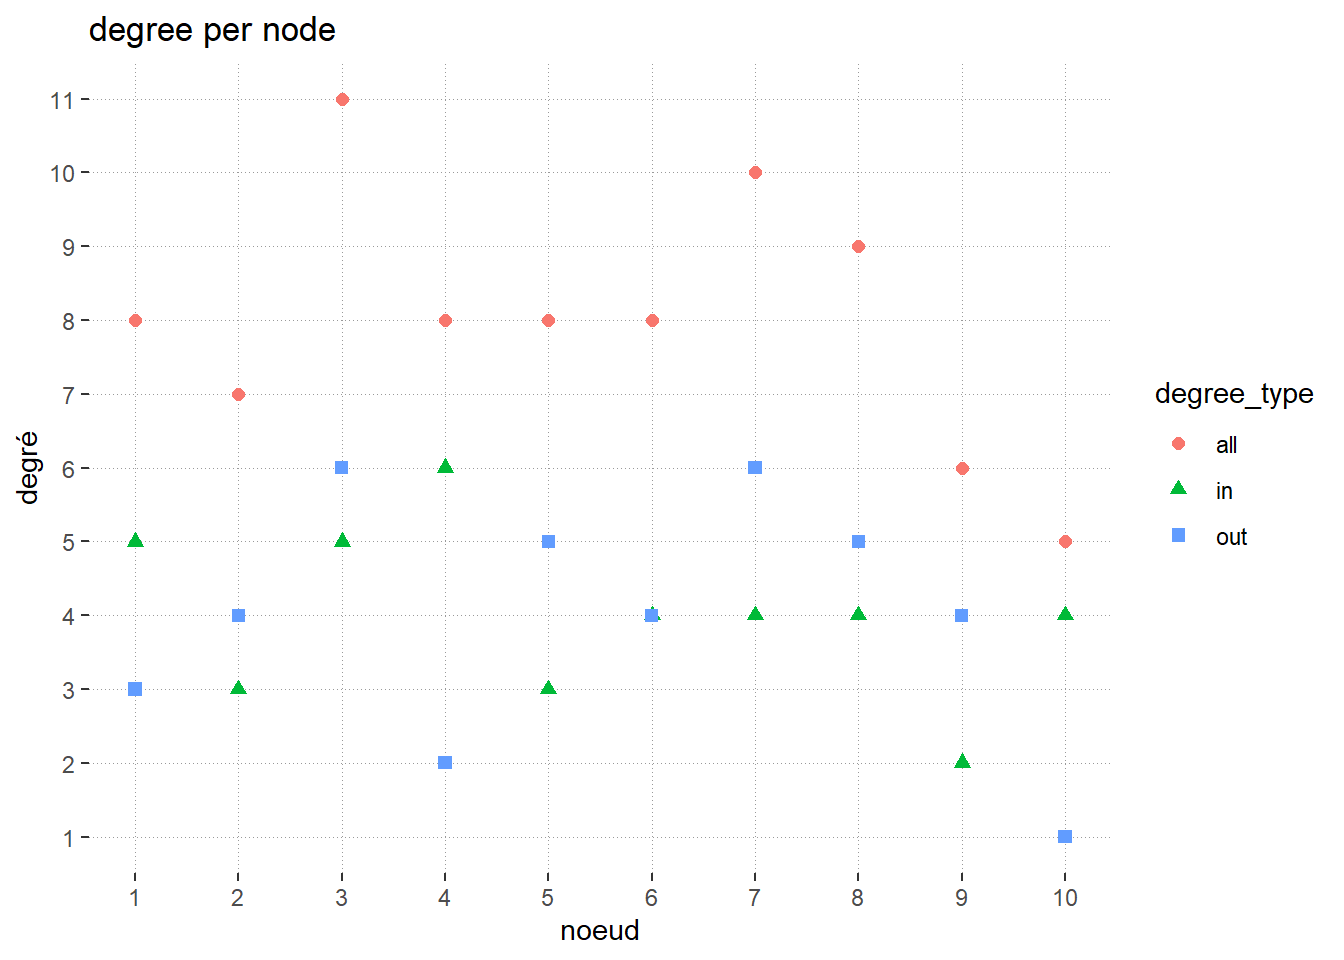
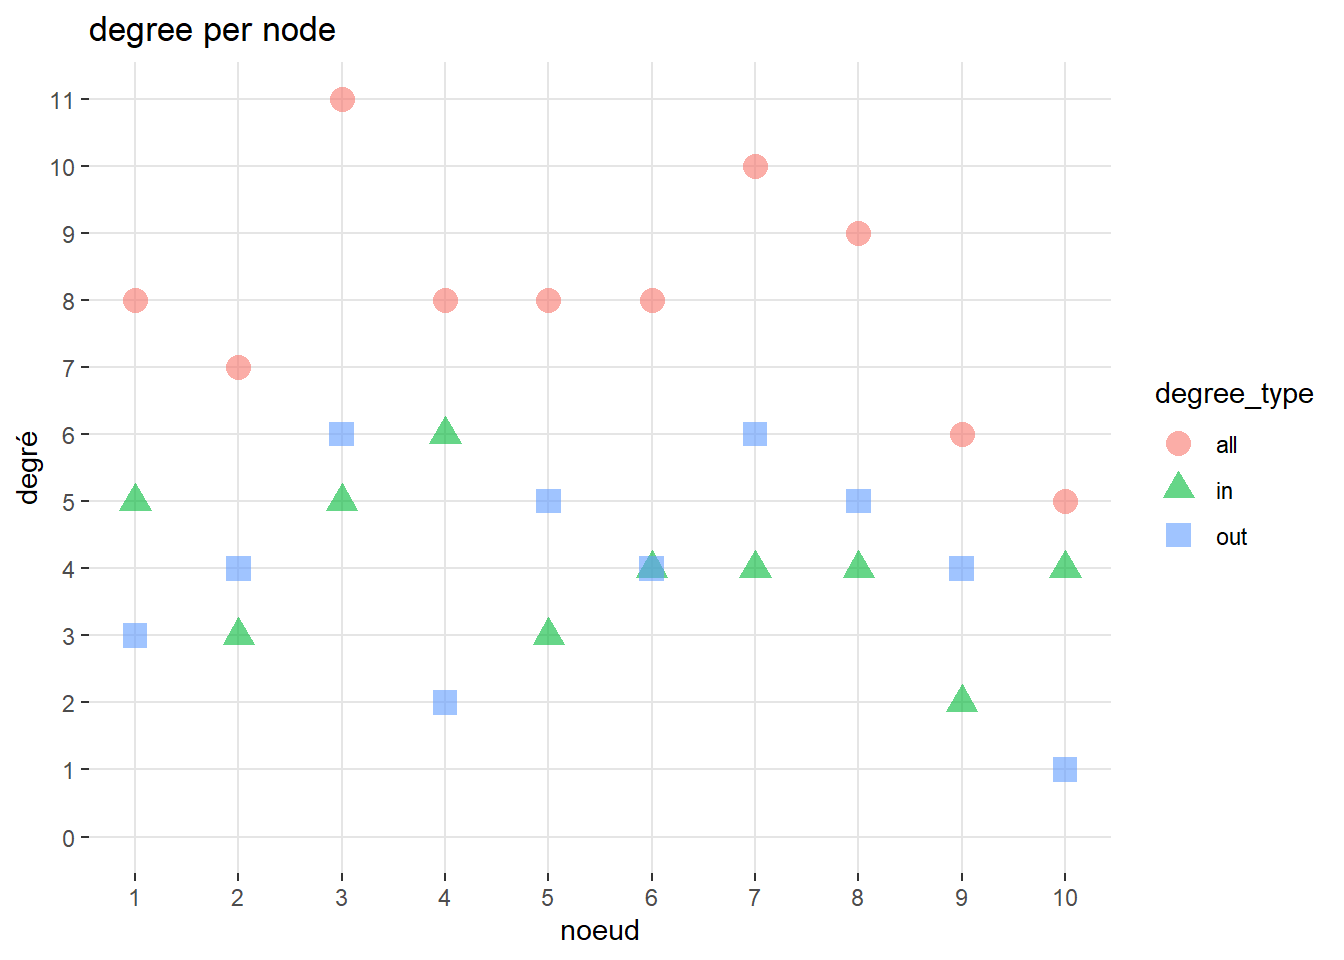
changing graphs

diff --git a/matrices.html b/matrices.html
@@ -2,7 +2,7 @@
 <html xmlns="http://www.w3.org/1999/xhtml" lang="en" xml:lang="en"><head>
 
 <meta charset="utf-8">
-<meta name="generator" content="quarto-1.4.551">
+<meta name="generator" content="quarto-1.4.550">
 
 <meta name="viewport" content="width=device-width, initial-scale=1.0, user-scalable=yes">
 
@@ -68,15 +68,10 @@ pre > code.sourceCode > span > a:first-child::before { text-decoration: underlin
 <link href="matrices_files/libs/bootstrap/bootstrap-icons.css" rel="stylesheet">
 <link href="matrices_files/libs/bootstrap/bootstrap.min.css" rel="stylesheet" id="quarto-bootstrap" data-mode="light">
 <link href="matrices_files/libs/htmltools-fill-0.5.8.1/fill.css" rel="stylesheet">
-
 <script src="matrices_files/libs/htmlwidgets-1.6.4/htmlwidgets.js"></script>
-
 <link href="matrices_files/libs/vis-9.1.0/vis-network.min.css" rel="stylesheet">
-
 <script src="matrices_files/libs/vis-9.1.0/vis-network.min.js"></script>
-
 <script src="matrices_files/libs/visNetwork-binding-2.1.2/visNetwork.js"></script>
-
 
   <script src="https://polyfill.io/v3/polyfill.min.js?features=es6"></script>
   <script src="https://cdn.jsdelivr.net/npm/mathjax@3/es5/tex-chtml-full.js" type="text/javascript"></script>
@@ -273,29 +268,62 @@ window.Quarto = {
 <span id="cb23-5"><a href="#cb23-5" aria-hidden="true" tabindex="-1"></a>    <span class="at">y =</span> value, </span>
 <span id="cb23-6"><a href="#cb23-6" aria-hidden="true" tabindex="-1"></a>    <span class="at">shape =</span> degree_type, </span>
 <span id="cb23-7"><a href="#cb23-7" aria-hidden="true" tabindex="-1"></a>    <span class="at">color =</span> degree_type),</span>
-<span id="cb23-8"><a href="#cb23-8" aria-hidden="true" tabindex="-1"></a>    <span class="at">size =</span> <span class="dv">2</span></span>
-<span id="cb23-9"><a href="#cb23-9" aria-hidden="true" tabindex="-1"></a>  ) <span class="sc">+</span></span>
-<span id="cb23-10"><a href="#cb23-10" aria-hidden="true" tabindex="-1"></a>  <span class="fu">labs</span>(<span class="at">x =</span> <span class="st">"noeud"</span>, <span class="at">y =</span> <span class="st">"degré"</span>) <span class="sc">+</span></span>
-<span id="cb23-11"><a href="#cb23-11" aria-hidden="true" tabindex="-1"></a>  <span class="fu">scale_x_continuous</span>(<span class="at">breaks =</span> <span class="dv">1</span><span class="sc">:</span>n) <span class="sc">+</span></span>
-<span id="cb23-12"><a href="#cb23-12" aria-hidden="true" tabindex="-1"></a>  <span class="fu">scale_y_continuous</span>(</span>
-<span id="cb23-13"><a href="#cb23-13" aria-hidden="true" tabindex="-1"></a>    <span class="at">breaks =</span> \(x) {<span class="fu">seq</span>(<span class="dv">0</span>, <span class="fu">max</span>(x))}) <span class="sc">+</span></span>
-<span id="cb23-14"><a href="#cb23-14" aria-hidden="true" tabindex="-1"></a>  <span class="fu">theme</span>(</span>
-<span id="cb23-15"><a href="#cb23-15" aria-hidden="true" tabindex="-1"></a>    <span class="at">panel.grid.minor =</span> <span class="fu">element_blank</span>(),</span>
-<span id="cb23-16"><a href="#cb23-16" aria-hidden="true" tabindex="-1"></a>    <span class="at">panel.grid.major =</span> <span class="fu">element_line</span>(</span>
-<span id="cb23-17"><a href="#cb23-17" aria-hidden="true" tabindex="-1"></a>      <span class="at">color =</span> <span class="st">"grey60"</span>,</span>
-<span id="cb23-18"><a href="#cb23-18" aria-hidden="true" tabindex="-1"></a>      <span class="at">linewidth =</span> <span class="fl">0.1</span>,</span>
-<span id="cb23-19"><a href="#cb23-19" aria-hidden="true" tabindex="-1"></a>      <span class="at">linetype =</span> <span class="dv">3</span>),</span>
-<span id="cb23-20"><a href="#cb23-20" aria-hidden="true" tabindex="-1"></a>    <span class="at">panel.background =</span> <span class="fu">element_blank</span>(),</span>
-<span id="cb23-21"><a href="#cb23-21" aria-hidden="true" tabindex="-1"></a>    <span class="at">legend.position =</span> <span class="st">"right"</span></span>
-<span id="cb23-22"><a href="#cb23-22" aria-hidden="true" tabindex="-1"></a>  ) <span class="sc">+</span></span>
-<span id="cb23-23"><a href="#cb23-23" aria-hidden="true" tabindex="-1"></a>  <span class="fu">labs</span>(</span>
-<span id="cb23-24"><a href="#cb23-24" aria-hidden="true" tabindex="-1"></a>    <span class="at">title =</span> <span class="st">"degree per node"</span>,</span>
-<span id="cb23-25"><a href="#cb23-25" aria-hidden="true" tabindex="-1"></a>    </span>
-<span id="cb23-26"><a href="#cb23-26" aria-hidden="true" tabindex="-1"></a>  )</span></code><button title="Copy to Clipboard" class="code-copy-button"><i class="bi"></i></button></pre></div>
+<span id="cb23-8"><a href="#cb23-8" aria-hidden="true" tabindex="-1"></a>    <span class="at">size =</span> <span class="dv">4</span>,</span>
+<span id="cb23-9"><a href="#cb23-9" aria-hidden="true" tabindex="-1"></a>    <span class="at">alpha =</span> <span class="fl">0.6</span></span>
+<span id="cb23-10"><a href="#cb23-10" aria-hidden="true" tabindex="-1"></a>  ) <span class="sc">+</span></span>
+<span id="cb23-11"><a href="#cb23-11" aria-hidden="true" tabindex="-1"></a>  <span class="fu">labs</span>(<span class="at">x =</span> <span class="st">"noeud"</span>, <span class="at">y =</span> <span class="st">"degré"</span>) <span class="sc">+</span></span>
+<span id="cb23-12"><a href="#cb23-12" aria-hidden="true" tabindex="-1"></a>  <span class="fu">scale_x_continuous</span>(<span class="at">breaks =</span> <span class="dv">1</span><span class="sc">:</span>n) <span class="sc">+</span></span>
+<span id="cb23-13"><a href="#cb23-13" aria-hidden="true" tabindex="-1"></a>  <span class="fu">scale_y_continuous</span>(</span>
+<span id="cb23-14"><a href="#cb23-14" aria-hidden="true" tabindex="-1"></a>    <span class="at">breaks =</span> \(x) {<span class="fu">seq</span>(<span class="dv">0</span>, <span class="fu">max</span>(x))},</span>
+<span id="cb23-15"><a href="#cb23-15" aria-hidden="true" tabindex="-1"></a>    <span class="at">limits =</span> \(x) {<span class="fu">c</span>(<span class="dv">0</span>, <span class="fu">max</span>(x))}) <span class="sc">+</span></span>
+<span id="cb23-16"><a href="#cb23-16" aria-hidden="true" tabindex="-1"></a>  <span class="fu">theme</span>(</span>
+<span id="cb23-17"><a href="#cb23-17" aria-hidden="true" tabindex="-1"></a>    <span class="at">panel.grid.minor =</span> <span class="fu">element_blank</span>(),</span>
+<span id="cb23-18"><a href="#cb23-18" aria-hidden="true" tabindex="-1"></a>    <span class="at">panel.grid.major =</span> <span class="fu">element_line</span>(</span>
+<span id="cb23-19"><a href="#cb23-19" aria-hidden="true" tabindex="-1"></a>      <span class="at">color =</span> <span class="st">"grey90"</span>,</span>
+<span id="cb23-20"><a href="#cb23-20" aria-hidden="true" tabindex="-1"></a>      <span class="at">linewidth =</span> <span class="fl">0.5</span>,</span>
+<span id="cb23-21"><a href="#cb23-21" aria-hidden="true" tabindex="-1"></a>      <span class="at">linetype =</span> <span class="dv">1</span>),</span>
+<span id="cb23-22"><a href="#cb23-22" aria-hidden="true" tabindex="-1"></a>    <span class="at">panel.background =</span> <span class="fu">element_blank</span>(),</span>
+<span id="cb23-23"><a href="#cb23-23" aria-hidden="true" tabindex="-1"></a>    <span class="at">legend.position =</span> <span class="st">"right"</span></span>
+<span id="cb23-24"><a href="#cb23-24" aria-hidden="true" tabindex="-1"></a>  ) <span class="sc">+</span></span>
+<span id="cb23-25"><a href="#cb23-25" aria-hidden="true" tabindex="-1"></a>  <span class="fu">labs</span>(</span>
+<span id="cb23-26"><a href="#cb23-26" aria-hidden="true" tabindex="-1"></a>    <span class="at">title =</span> <span class="st">"degree per node"</span>,</span>
+<span id="cb23-27"><a href="#cb23-27" aria-hidden="true" tabindex="-1"></a>    </span>
+<span id="cb23-28"><a href="#cb23-28" aria-hidden="true" tabindex="-1"></a>  )</span></code><button title="Copy to Clipboard" class="code-copy-button"><i class="bi"></i></button></pre></div>
 <div class="cell-output-display">
 <div>
 <figure class="figure">
 <p><img src="matrices_files/figure-html/unnamed-chunk-6-1.png" class="img-fluid figure-img" width="672"></p>
+</figure>
+</div>
+</div>
+<div class="sourceCode cell-code" id="cb24"><pre class="sourceCode r code-with-copy"><code class="sourceCode r"><span id="cb24-1"><a href="#cb24-1" aria-hidden="true" tabindex="-1"></a>df_degree_per_node <span class="sc">|&gt;</span> </span>
+<span id="cb24-2"><a href="#cb24-2" aria-hidden="true" tabindex="-1"></a>  dplyr<span class="sc">::</span><span class="fu">filter</span>(degree_type <span class="sc">!=</span> <span class="st">"all"</span>) <span class="sc">|&gt;</span> </span>
+<span id="cb24-3"><a href="#cb24-3" aria-hidden="true" tabindex="-1"></a>  <span class="fu">ggplot</span>(<span class="fu">aes</span>(<span class="at">x =</span> node, <span class="at">y =</span> value, <span class="at">fill =</span> degree_type)) <span class="sc">+</span></span>
+<span id="cb24-4"><a href="#cb24-4" aria-hidden="true" tabindex="-1"></a>  <span class="fu">geom_col</span>() <span class="sc">+</span></span>
+<span id="cb24-5"><a href="#cb24-5" aria-hidden="true" tabindex="-1"></a>  <span class="fu">scale_x_continuous</span>(<span class="at">breaks =</span> <span class="dv">1</span><span class="sc">:</span>n) <span class="sc">+</span></span>
+<span id="cb24-6"><a href="#cb24-6" aria-hidden="true" tabindex="-1"></a>  <span class="fu">scale_y_continuous</span>(</span>
+<span id="cb24-7"><a href="#cb24-7" aria-hidden="true" tabindex="-1"></a>    <span class="at">breaks =</span> \(x) {<span class="fu">seq</span>(<span class="dv">0</span>, <span class="fu">max</span>(x), <span class="dv">2</span>)},</span>
+<span id="cb24-8"><a href="#cb24-8" aria-hidden="true" tabindex="-1"></a>    <span class="at">limits =</span> \(x) {<span class="fu">c</span>(<span class="dv">0</span>, <span class="fu">max</span>(x))}) <span class="sc">+</span></span>
+<span id="cb24-9"><a href="#cb24-9" aria-hidden="true" tabindex="-1"></a>  <span class="fu">theme</span>(</span>
+<span id="cb24-10"><a href="#cb24-10" aria-hidden="true" tabindex="-1"></a>    <span class="at">panel.grid.minor =</span> <span class="fu">element_blank</span>(),</span>
+<span id="cb24-11"><a href="#cb24-11" aria-hidden="true" tabindex="-1"></a>    <span class="at">panel.grid.major =</span> <span class="fu">element_line</span>(</span>
+<span id="cb24-12"><a href="#cb24-12" aria-hidden="true" tabindex="-1"></a>      <span class="at">color =</span> <span class="st">"grey90"</span>,</span>
+<span id="cb24-13"><a href="#cb24-13" aria-hidden="true" tabindex="-1"></a>      <span class="at">linewidth =</span> <span class="fl">0.5</span>,</span>
+<span id="cb24-14"><a href="#cb24-14" aria-hidden="true" tabindex="-1"></a>      <span class="at">linetype =</span> <span class="dv">1</span>),</span>
+<span id="cb24-15"><a href="#cb24-15" aria-hidden="true" tabindex="-1"></a>    <span class="at">panel.grid.minor.y =</span> <span class="fu">element_line</span>(</span>
+<span id="cb24-16"><a href="#cb24-16" aria-hidden="true" tabindex="-1"></a>      <span class="at">color =</span> <span class="st">"grey60"</span>,</span>
+<span id="cb24-17"><a href="#cb24-17" aria-hidden="true" tabindex="-1"></a>      <span class="at">linewidth =</span> <span class="fl">0.5</span>,</span>
+<span id="cb24-18"><a href="#cb24-18" aria-hidden="true" tabindex="-1"></a>      <span class="at">linetype =</span> <span class="dv">3</span>),</span>
+<span id="cb24-19"><a href="#cb24-19" aria-hidden="true" tabindex="-1"></a>    <span class="at">panel.background =</span> <span class="fu">element_blank</span>(),</span>
+<span id="cb24-20"><a href="#cb24-20" aria-hidden="true" tabindex="-1"></a>    <span class="at">legend.position =</span> <span class="st">"right"</span></span>
+<span id="cb24-21"><a href="#cb24-21" aria-hidden="true" tabindex="-1"></a>  ) <span class="sc">+</span></span>
+<span id="cb24-22"><a href="#cb24-22" aria-hidden="true" tabindex="-1"></a>  <span class="fu">labs</span>(</span>
+<span id="cb24-23"><a href="#cb24-23" aria-hidden="true" tabindex="-1"></a>    <span class="at">title =</span> <span class="st">"degree per node"</span>,</span>
+<span id="cb24-24"><a href="#cb24-24" aria-hidden="true" tabindex="-1"></a>  )</span></code><button title="Copy to Clipboard" class="code-copy-button"><i class="bi"></i></button></pre></div>
+<div class="cell-output-display">
+<div>
+<figure class="figure">
+<p><img src="matrices_files/figure-html/unnamed-chunk-6-2.png" class="img-fluid figure-img" width="672"></p>
 </figure>
 </div>
 </div>
@@ -309,8 +337,8 @@ window.Quarto = {
 <li>calculé manuellement à partir de la matrice d’adjacence <span class="math inline">\(A\)</span></li>
 </ul>
 <div class="cell">
-<div class="sourceCode cell-code" id="cb24"><pre class="sourceCode r code-with-copy"><code class="sourceCode r"><span id="cb24-1"><a href="#cb24-1" aria-hidden="true" tabindex="-1"></a>degre_distrib <span class="ot">&lt;-</span> <span class="fu">proportions</span>(<span class="fu">table</span>(degre_all))</span>
-<span id="cb24-2"><a href="#cb24-2" aria-hidden="true" tabindex="-1"></a>degre_distrib</span></code><button title="Copy to Clipboard" class="code-copy-button"><i class="bi"></i></button></pre></div>
+<div class="sourceCode cell-code" id="cb25"><pre class="sourceCode r code-with-copy"><code class="sourceCode r"><span id="cb25-1"><a href="#cb25-1" aria-hidden="true" tabindex="-1"></a>degre_distrib <span class="ot">&lt;-</span> <span class="fu">proportions</span>(<span class="fu">table</span>(degre_all))</span>
+<span id="cb25-2"><a href="#cb25-2" aria-hidden="true" tabindex="-1"></a>degre_distrib</span></code><button title="Copy to Clipboard" class="code-copy-button"><i class="bi"></i></button></pre></div>
 <div class="cell-output cell-output-stdout">
 <pre><code>degre_all
   5   6   7   8   9  10  11 
@@ -321,9 +349,9 @@ window.Quarto = {
 <li>calculé à partir du graph <span class="math inline">\(G\)</span> avec la fonction<code>degree_distribution</code> du package ìgraph`</li>
 </ul>
 <div class="cell">
-<div class="sourceCode cell-code" id="cb26"><pre class="sourceCode r code-with-copy"><code class="sourceCode r"><span id="cb26-1"><a href="#cb26-1" aria-hidden="true" tabindex="-1"></a>degree_distrib <span class="ot">&lt;-</span> <span class="fu">degree_distribution</span>(G)</span>
-<span id="cb26-2"><a href="#cb26-2" aria-hidden="true" tabindex="-1"></a>df_degree_distrib <span class="ot">&lt;-</span> <span class="fu">data.frame</span>(<span class="at">degree =</span> <span class="dv">0</span><span class="sc">:</span><span class="fu">max</span>(degree_all), <span class="at">percent =</span> degree_distrib <span class="sc">*</span> <span class="dv">100</span>)</span>
-<span id="cb26-3"><a href="#cb26-3" aria-hidden="true" tabindex="-1"></a><span class="fu">head</span>(df_degree_distrib)</span></code><button title="Copy to Clipboard" class="code-copy-button"><i class="bi"></i></button></pre></div>
+<div class="sourceCode cell-code" id="cb27"><pre class="sourceCode r code-with-copy"><code class="sourceCode r"><span id="cb27-1"><a href="#cb27-1" aria-hidden="true" tabindex="-1"></a>degree_distrib <span class="ot">&lt;-</span> <span class="fu">degree_distribution</span>(G)</span>
+<span id="cb27-2"><a href="#cb27-2" aria-hidden="true" tabindex="-1"></a>df_degree_distrib <span class="ot">&lt;-</span> <span class="fu">data.frame</span>(<span class="at">degree =</span> <span class="dv">0</span><span class="sc">:</span><span class="fu">max</span>(degree_all), <span class="at">percent =</span> degree_distrib <span class="sc">*</span> <span class="dv">100</span>)</span>
+<span id="cb27-3"><a href="#cb27-3" aria-hidden="true" tabindex="-1"></a><span class="fu">head</span>(df_degree_distrib)</span></code><button title="Copy to Clipboard" class="code-copy-button"><i class="bi"></i></button></pre></div>
 <div class="cell-output cell-output-stdout">
 <pre><code>  degree percent
 1      0       0
@@ -333,23 +361,23 @@ window.Quarto = {
 5      4       0
 6      5      10</code></pre>
 </div>
-<div class="sourceCode cell-code" id="cb28"><pre class="sourceCode r code-with-copy"><code class="sourceCode r"><span id="cb28-1"><a href="#cb28-1" aria-hidden="true" tabindex="-1"></a>df_degree_distrib <span class="sc">|&gt;</span> </span>
-<span id="cb28-2"><a href="#cb28-2" aria-hidden="true" tabindex="-1"></a>  <span class="fu">ggplot</span>(<span class="fu">aes</span>(<span class="at">x =</span> degree, <span class="at">y =</span> percent)) <span class="sc">+</span></span>
-<span id="cb28-3"><a href="#cb28-3" aria-hidden="true" tabindex="-1"></a>  <span class="fu">scale_x_continuous</span>(<span class="at">breaks =</span> \(x) {<span class="fu">seq</span>(<span class="dv">0</span>, <span class="fu">max</span>(x))}) <span class="sc">+</span></span>
-<span id="cb28-4"><a href="#cb28-4" aria-hidden="true" tabindex="-1"></a>  <span class="fu">scale_y_continuous</span>(<span class="at">breaks =</span> \(x) {<span class="fu">seq</span>(<span class="dv">0</span>, <span class="fu">max</span>(x), <span class="dv">10</span>)}) <span class="sc">+</span></span>
-<span id="cb28-5"><a href="#cb28-5" aria-hidden="true" tabindex="-1"></a>  <span class="fu">geom_pointrange</span>(<span class="fu">aes</span>(<span class="at">ymin =</span> <span class="dv">0</span>, <span class="at">ymax =</span> percent), <span class="at">color =</span> <span class="st">"red"</span>) <span class="sc">+</span></span>
-<span id="cb28-6"><a href="#cb28-6" aria-hidden="true" tabindex="-1"></a>  <span class="fu">labs</span>(<span class="at">x =</span> <span class="st">"degré"</span>, <span class="at">y =</span> <span class="st">"%"</span>) <span class="sc">+</span></span>
-<span id="cb28-7"><a href="#cb28-7" aria-hidden="true" tabindex="-1"></a>  <span class="fu">theme</span>(</span>
-<span id="cb28-8"><a href="#cb28-8" aria-hidden="true" tabindex="-1"></a>    <span class="at">panel.grid.minor =</span> <span class="fu">element_blank</span>(),</span>
-<span id="cb28-9"><a href="#cb28-9" aria-hidden="true" tabindex="-1"></a>    <span class="at">panel.grid.major =</span> <span class="fu">element_line</span>(</span>
-<span id="cb28-10"><a href="#cb28-10" aria-hidden="true" tabindex="-1"></a>      <span class="at">color =</span> <span class="st">"grey60"</span>,</span>
-<span id="cb28-11"><a href="#cb28-11" aria-hidden="true" tabindex="-1"></a>      <span class="at">linewidth =</span> <span class="fl">0.1</span>,</span>
-<span id="cb28-12"><a href="#cb28-12" aria-hidden="true" tabindex="-1"></a>      <span class="at">linetype =</span> <span class="dv">3</span>),</span>
-<span id="cb28-13"><a href="#cb28-13" aria-hidden="true" tabindex="-1"></a>    <span class="at">panel.background =</span> <span class="fu">element_blank</span>()</span>
-<span id="cb28-14"><a href="#cb28-14" aria-hidden="true" tabindex="-1"></a>  ) <span class="sc">+</span></span>
-<span id="cb28-15"><a href="#cb28-15" aria-hidden="true" tabindex="-1"></a>  <span class="fu">labs</span>(</span>
-<span id="cb28-16"><a href="#cb28-16" aria-hidden="true" tabindex="-1"></a>    <span class="at">title =</span> <span class="st">"degree distribution"</span></span>
-<span id="cb28-17"><a href="#cb28-17" aria-hidden="true" tabindex="-1"></a>  )</span></code><button title="Copy to Clipboard" class="code-copy-button"><i class="bi"></i></button></pre></div>
+<div class="sourceCode cell-code" id="cb29"><pre class="sourceCode r code-with-copy"><code class="sourceCode r"><span id="cb29-1"><a href="#cb29-1" aria-hidden="true" tabindex="-1"></a>df_degree_distrib <span class="sc">|&gt;</span> </span>
+<span id="cb29-2"><a href="#cb29-2" aria-hidden="true" tabindex="-1"></a>  <span class="fu">ggplot</span>(<span class="fu">aes</span>(<span class="at">x =</span> degree, <span class="at">y =</span> percent)) <span class="sc">+</span></span>
+<span id="cb29-3"><a href="#cb29-3" aria-hidden="true" tabindex="-1"></a>  <span class="fu">scale_x_continuous</span>(<span class="at">breaks =</span> \(x) {<span class="fu">seq</span>(<span class="dv">0</span>, <span class="fu">max</span>(x))}) <span class="sc">+</span></span>
+<span id="cb29-4"><a href="#cb29-4" aria-hidden="true" tabindex="-1"></a>  <span class="fu">scale_y_continuous</span>(<span class="at">breaks =</span> \(x) {<span class="fu">seq</span>(<span class="dv">0</span>, <span class="fu">max</span>(x), <span class="dv">10</span>)}) <span class="sc">+</span></span>
+<span id="cb29-5"><a href="#cb29-5" aria-hidden="true" tabindex="-1"></a>  <span class="fu">geom_pointrange</span>(<span class="fu">aes</span>(<span class="at">ymin =</span> <span class="dv">0</span>, <span class="at">ymax =</span> percent), <span class="at">color =</span> <span class="st">"red"</span>) <span class="sc">+</span></span>
+<span id="cb29-6"><a href="#cb29-6" aria-hidden="true" tabindex="-1"></a>  <span class="fu">labs</span>(<span class="at">x =</span> <span class="st">"degré"</span>, <span class="at">y =</span> <span class="st">"%"</span>) <span class="sc">+</span></span>
+<span id="cb29-7"><a href="#cb29-7" aria-hidden="true" tabindex="-1"></a>  <span class="fu">theme</span>(</span>
+<span id="cb29-8"><a href="#cb29-8" aria-hidden="true" tabindex="-1"></a>    <span class="at">panel.grid.minor =</span> <span class="fu">element_blank</span>(),</span>
+<span id="cb29-9"><a href="#cb29-9" aria-hidden="true" tabindex="-1"></a>    <span class="at">panel.grid.major =</span> <span class="fu">element_line</span>(</span>
+<span id="cb29-10"><a href="#cb29-10" aria-hidden="true" tabindex="-1"></a>      <span class="at">color =</span> <span class="st">"grey60"</span>,</span>
+<span id="cb29-11"><a href="#cb29-11" aria-hidden="true" tabindex="-1"></a>      <span class="at">linewidth =</span> <span class="fl">0.1</span>,</span>
+<span id="cb29-12"><a href="#cb29-12" aria-hidden="true" tabindex="-1"></a>      <span class="at">linetype =</span> <span class="dv">3</span>),</span>
+<span id="cb29-13"><a href="#cb29-13" aria-hidden="true" tabindex="-1"></a>    <span class="at">panel.background =</span> <span class="fu">element_blank</span>()</span>
+<span id="cb29-14"><a href="#cb29-14" aria-hidden="true" tabindex="-1"></a>  ) <span class="sc">+</span></span>
+<span id="cb29-15"><a href="#cb29-15" aria-hidden="true" tabindex="-1"></a>  <span class="fu">labs</span>(</span>
+<span id="cb29-16"><a href="#cb29-16" aria-hidden="true" tabindex="-1"></a>    <span class="at">title =</span> <span class="st">"degree distribution"</span></span>
+<span id="cb29-17"><a href="#cb29-17" aria-hidden="true" tabindex="-1"></a>  )</span></code><button title="Copy to Clipboard" class="code-copy-button"><i class="bi"></i></button></pre></div>
 <div class="cell-output-display">
 <div>
 <figure class="figure">
@@ -365,7 +393,7 @@ window.Quarto = {
 <section id="to-have-an-idea-about-what-can-be-done-with-visnetwork-and-shiny" class="level2">
 <h2 class="anchored" data-anchor-id="to-have-an-idea-about-what-can-be-done-with-visnetwork-and-shiny">To have an idea about what can be done with visNetwork and shiny</h2>
 <div class="cell">
-<div class="sourceCode cell-code" id="cb29"><pre class="sourceCode r code-with-copy"><code class="sourceCode r"><span id="cb29-1"><a href="#cb29-1" aria-hidden="true" tabindex="-1"></a><span class="co">#shiny::runApp(system.file("shiny", package = "visNetwork"))</span></span></code><button title="Copy to Clipboard" class="code-copy-button"><i class="bi"></i></button></pre></div>
+<div class="sourceCode cell-code" id="cb30"><pre class="sourceCode r code-with-copy"><code class="sourceCode r"><span id="cb30-1"><a href="#cb30-1" aria-hidden="true" tabindex="-1"></a><span class="co">#shiny::runApp(system.file("shiny", package = "visNetwork"))</span></span></code><button title="Copy to Clipboard" class="code-copy-button"><i class="bi"></i></button></pre></div>
 </div>
 </section>
 </section>
@@ -451,24 +479,6 @@ window.document.addEventListener("DOMContentLoaded", function (event) {
     // clear code selection
     e.clearSelection();
   });
-    var localhostRegex = new RegExp(/^(?:http|https):\/\/localhost\:?[0-9]*\//);
-    var mailtoRegex = new RegExp(/^mailto:/);
-      var filterRegex = new RegExp('/' + window.location.host + '/');
-    var isInternal = (href) => {
-        return filterRegex.test(href) || localhostRegex.test(href) || mailtoRegex.test(href);
-    }
-    // Inspect non-navigation links and adorn them if external
- 	var links = window.document.querySelectorAll('a[href]:not(.nav-link):not(.navbar-brand):not(.toc-action):not(.sidebar-link):not(.sidebar-item-toggle):not(.pagination-link):not(.no-external):not([aria-hidden]):not(.dropdown-item):not(.quarto-navigation-tool)');
-    for (var i=0; i<links.length; i++) {
-      const link = links[i];
-      if (!isInternal(link.href)) {
-        // undo the damage that might have been done by quarto-nav.js in the case of
-        // links that we want to consider external
-        if (link.dataset.originalHref !== undefined) {
-          link.href = link.dataset.originalHref;
-        }
-      }
-    }
   function tippyHover(el, contentFn, onTriggerFn, onUntriggerFn) {
     const config = {
       allowHTML: true,
@@ -503,11 +513,7 @@ window.document.addEventListener("DOMContentLoaded", function (event) {
       try { href = new URL(href).hash; } catch {}
       const id = href.replace(/^#\/?/, "");
       const note = window.document.getElementById(id);
-      if (note) {
-        return note.innerHTML;
-      } else {
-        return "";
-      }
+      return note.innerHTML;
     });
   }
   const xrefs = window.document.querySelectorAll('a.quarto-xref');
